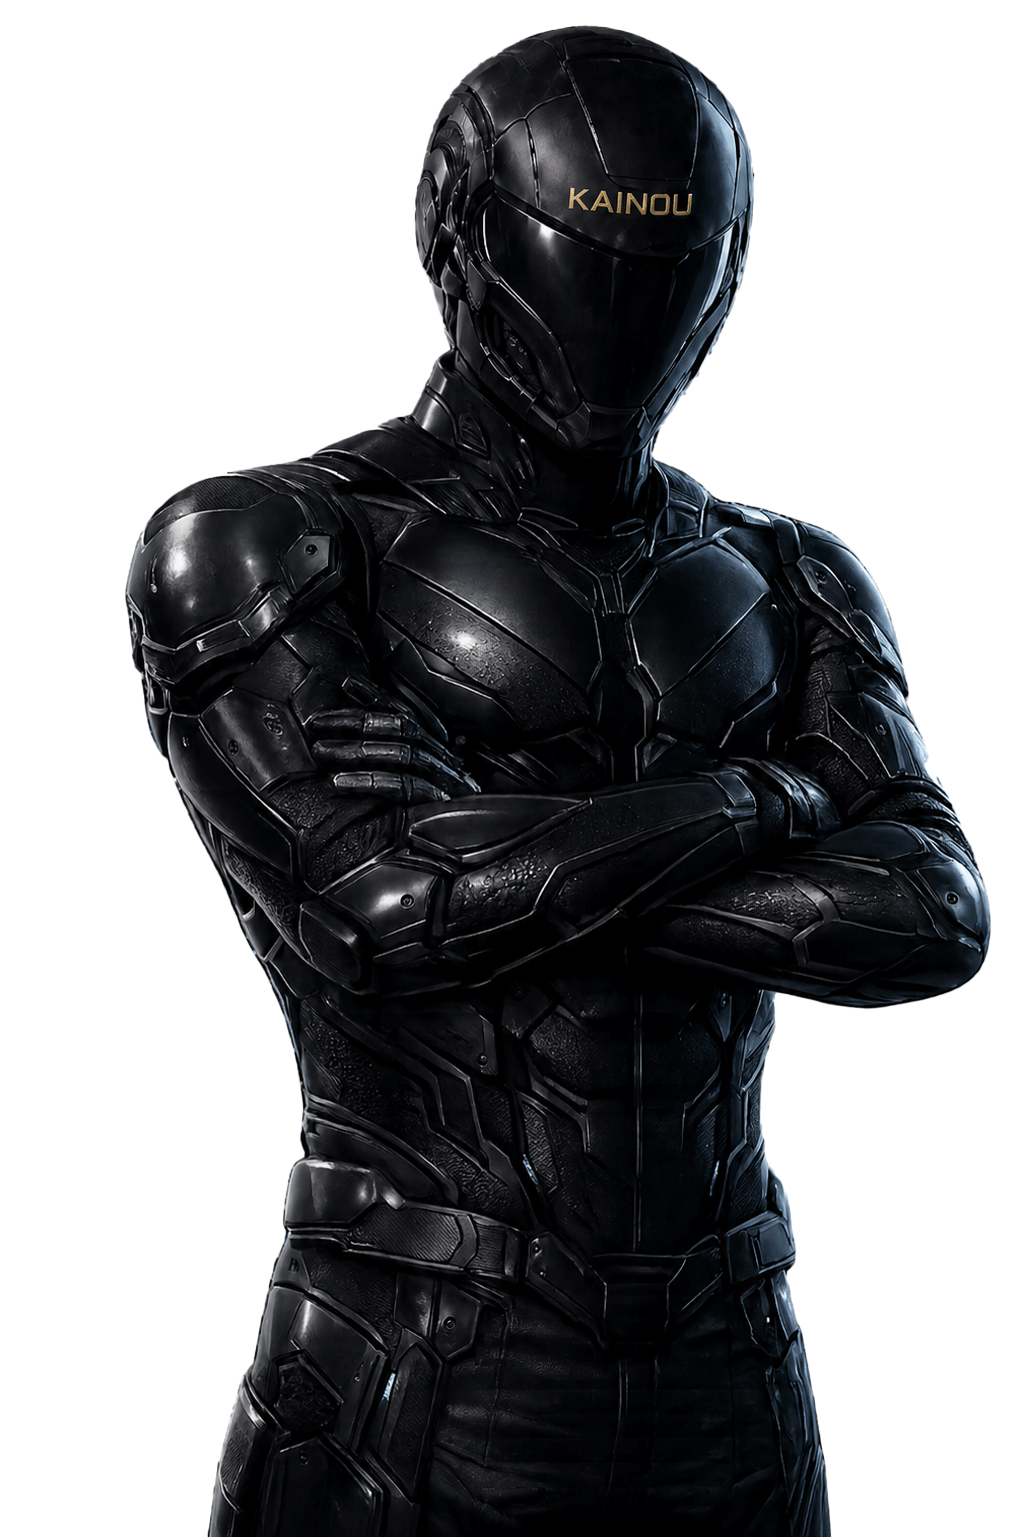
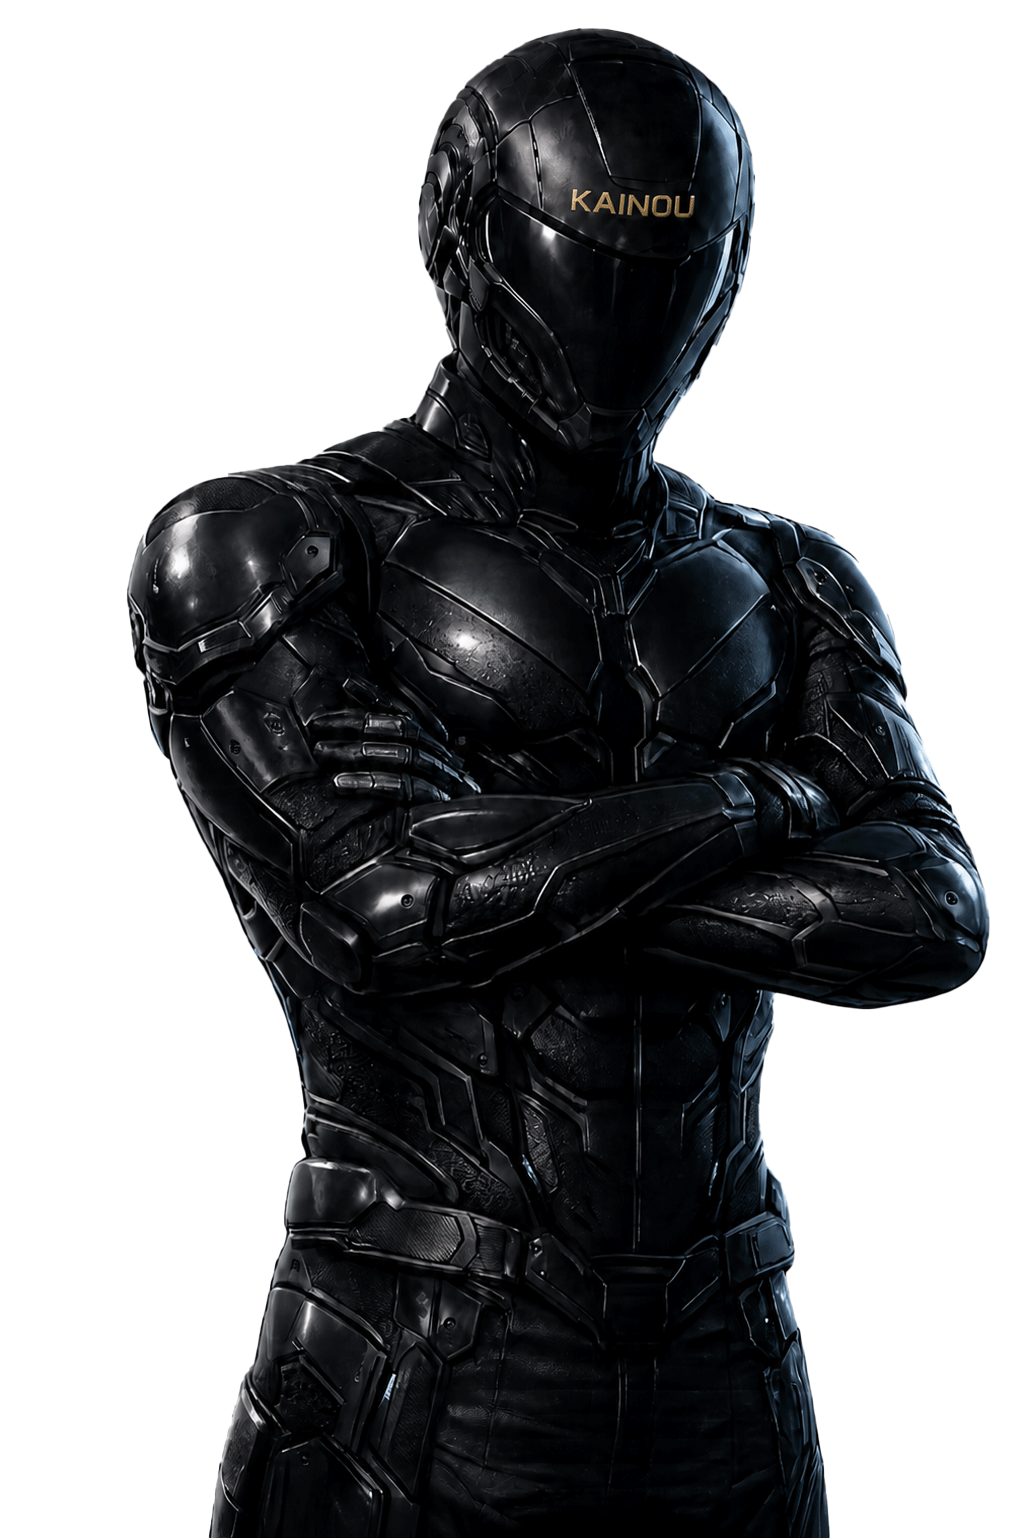
fv main: drop white-halo shim shadows now that mask PNG is cleaned

diff --git a/index.html b/index.html
@@ -191,19 +191,8 @@ nav .cta:hover{
   100%{opacity:1;filter:blur(0) brightness(.85) drop-shadow(0 0 40px rgba(0,0,0,.7))}
 }
 @keyframes fadeMain{
-  0%{
-    opacity:0;
-    filter:blur(28px)
-      drop-shadow(0 0 80px rgba(0,0,0,.85));
-  }
-  100%{
-    opacity:1;
-    filter:
-      drop-shadow(0 0 .5px rgba(0,0,0,1))
-      drop-shadow(0 0 1px rgba(0,0,0,1))
-      drop-shadow(0 0 1.5px rgba(0,0,0,1))
-      drop-shadow(0 0 80px rgba(0,0,0,.85));
-  }
+  0%{opacity:0;filter:blur(28px) drop-shadow(0 0 80px rgba(0,0,0,.85))}
+  100%{opacity:1;filter:blur(0) drop-shadow(0 0 80px rgba(0,0,0,.85))}
 }
 
 /* FV text overlay */
